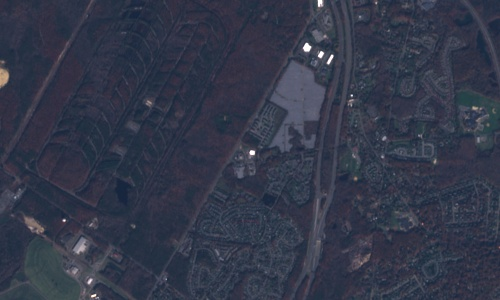
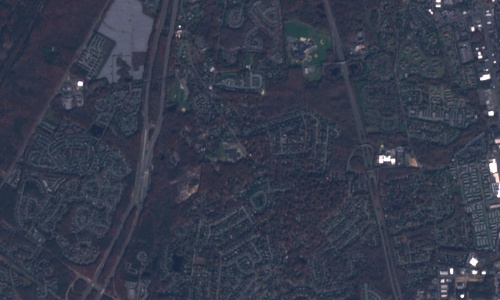
Recenter Sentinel-2 crops exactly on Wayside Elementary school mirror coordinate (7915, 4384) and increment cache version to v=1.0.6

diff --git a/js/main.js b/js/main.js
@@ -444,13 +444,13 @@ document.addEventListener('DOMContentLoaded', () => {
       
       if (item.date) {
         if (item.date.includes('2023-11-16')) {
-          imgPath = 'img/sentinel2_reflection_20231116.jpg';
+          imgPath = 'img/sentinel2_reflection_20231116.jpg?v=1.0.6';
           imgAlt = 'Sentinel-2B True Color Crop (November 16, 2023)';
         } else if (item.date.includes('2026-05-31')) {
-          imgPath = 'img/sentinel2_reflection_20260531.jpg';
+          imgPath = 'img/sentinel2_reflection_20260531.jpg?v=1.0.6';
           imgAlt = 'Sentinel-2A True Color Crop (May 31, 2026)';
         } else if (item.date.includes('2026-06-05')) {
-          imgPath = 'img/sentinel2_reflection_20260605.jpg';
+          imgPath = 'img/sentinel2_reflection_20260605.jpg?v=1.0.6';
           imgAlt = 'Sentinel-2C True Color Crop (June 5, 2026)';
         }
       }

diff --git a/index.html b/index.html
@@ -10,7 +10,7 @@
   <title>The Orbital Heliography Project</title>
 
   <!-- Stylesheets -->
-  <link rel="stylesheet" href="css/style.css?v=1.0.5">
+  <link rel="stylesheet" href="css/style.css?v=1.0.6">
 </head>
 
 <body>
@@ -578,6 +578,6 @@
   </footer>
 
   <!-- Scripts -->
-  <script src="js/main.js?v=1.0.5"></script>
+  <script src="js/main.js?v=1.0.6"></script>
 </body>
 </html>
